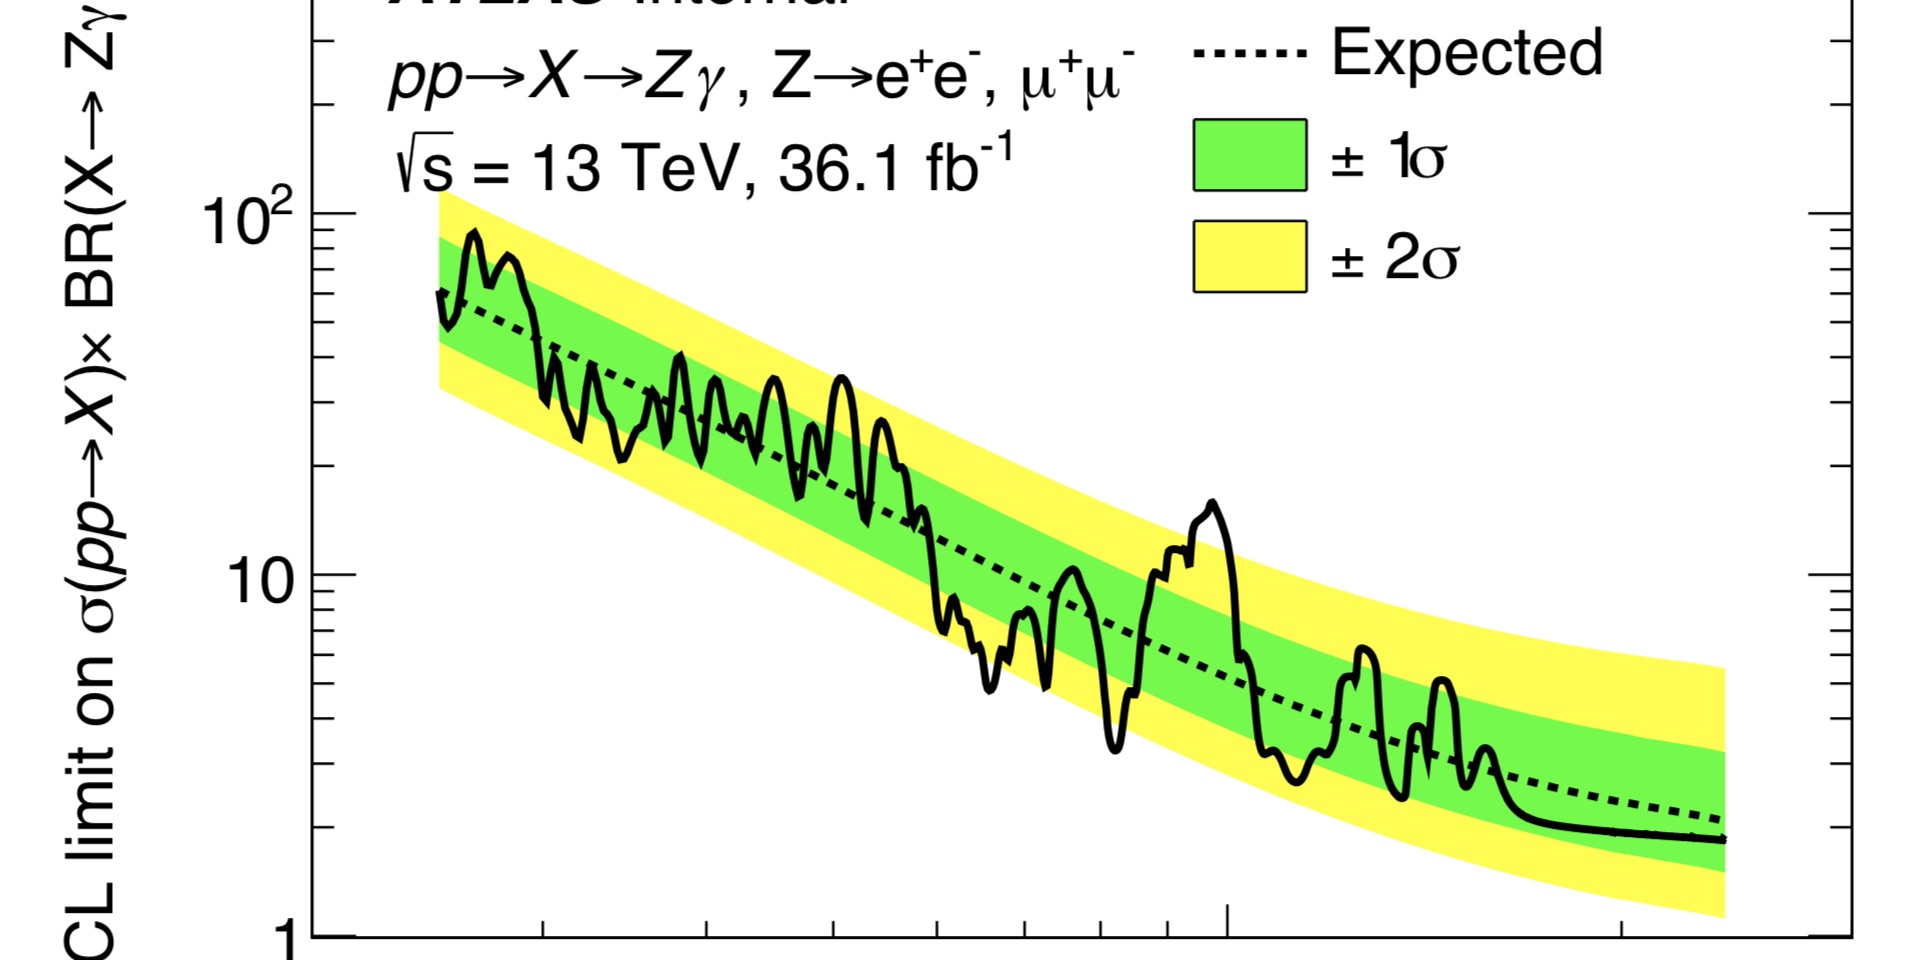
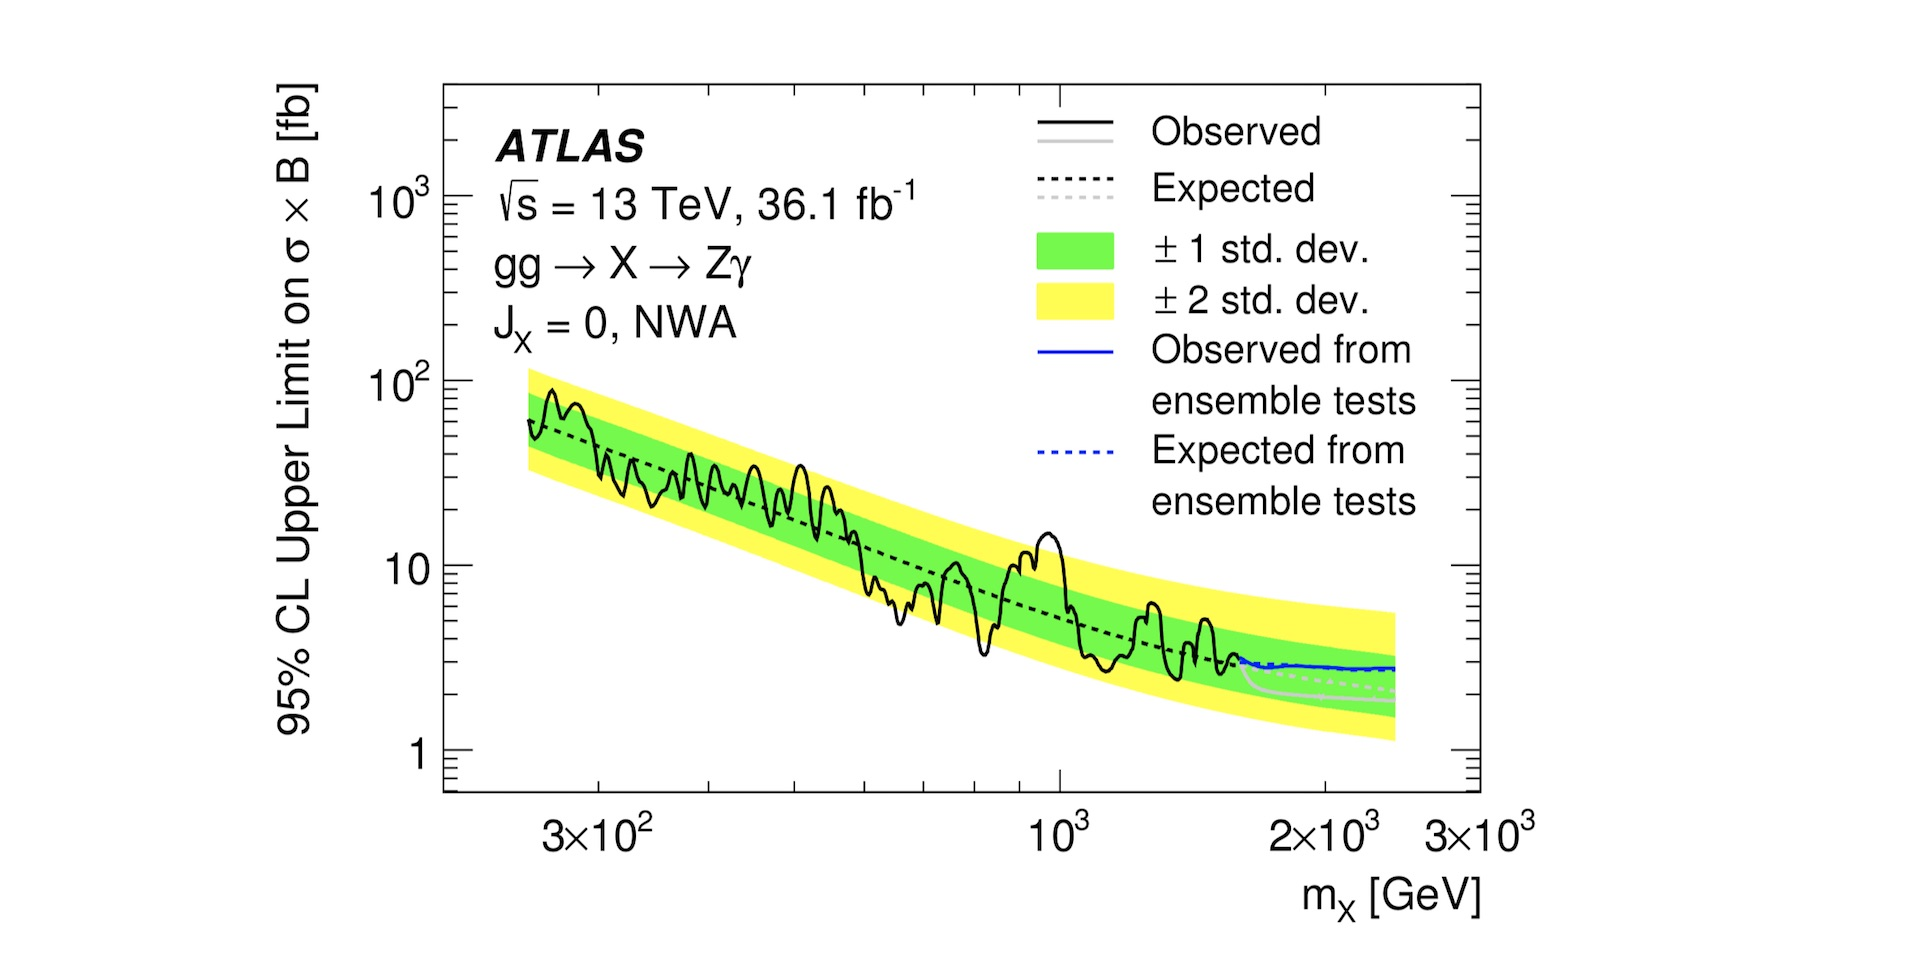
modify blog2

diff --git a/index.html b/index.html
@@ -55,7 +55,7 @@
                                                                                 <img src="images/Stat.jpg" alt="" data-thumb="images/Stat.jpg" title="#htmlcaption3" >
                                                                                 </a>
 										<a href="blogs/Webnote.html" class="image">
-                                                                                <img src="images/Webpage.jpg" alt="" data-thumb="images/Webpage.jpg" title="#htmlcaption4" />
+                                                                                <img src="images/ATLAS.jpg" alt="" data-thumb="images/ATLAS.jpg" title="#htmlcaption4" />
                                                                                 </a>
 									    </div>
 									    <div id="htmlcaption1" class="nivo-html-caption">

diff --git a/indexmobile.html b/indexmobile.html
@@ -55,7 +55,7 @@
                                                                                 <img src="images/Stat.jpg" alt="" data-thumb="images/Stat.jpg" title="#htmlcaption3" >
                                                                                 </a>
 										<a href="blogs/Webnote.html" class="image">
-                                                                                <img src="images/Webpage.jpg" alt="" data-thumb="images/Webpage.jpg" title="#htmlcaption4" />
+                                                                                <img src="images/ATLAS.jpg" alt="" data-thumb="images/ATLAS.jpg" title="#htmlcaption4" />
                                                                                 </a>
 									    </div>
 									    <div id="htmlcaption1" class="nivo-html-caption">

diff --git a/README.md b/README.md
@@ -18,9 +18,9 @@ https://hans2936.github.io, 用来发布一些博客，并学习网页制作。
 >回到顶部按钮：[17素材网](http://www.17sucai.com)
 
 # 重要上传记录
-* 2017年10月23日：上传第二篇博客，完成对本站模版、素材的总结。
+* 2017年10月23日：上传[第二篇博客](https://hans2936.github.io/blogs/CERNblog_Web_171023.html)，完成对本站模版、素材的总结。
 * 2017年10月21日：使用Gitment作为评论系统。
-* 2017年10月20日：使用Makedown编辑器写了第一篇博客。
+* 2017年10月20日：使用Makedown编辑器写了[第一篇博客](https://hans2936.github.io/blogs/CERNblog_Web_171020.html)。
 * 2017年10月17日：尝试微博评论箱、微博秀失败，使用来必力作为评论系统。
 * 2017年10月14日：加入图片滚动，谷歌搜索采取分页。
 * 2017年10月9日：完成博客模版，PHP搜索尝试失败，加入谷歌站内搜索。
